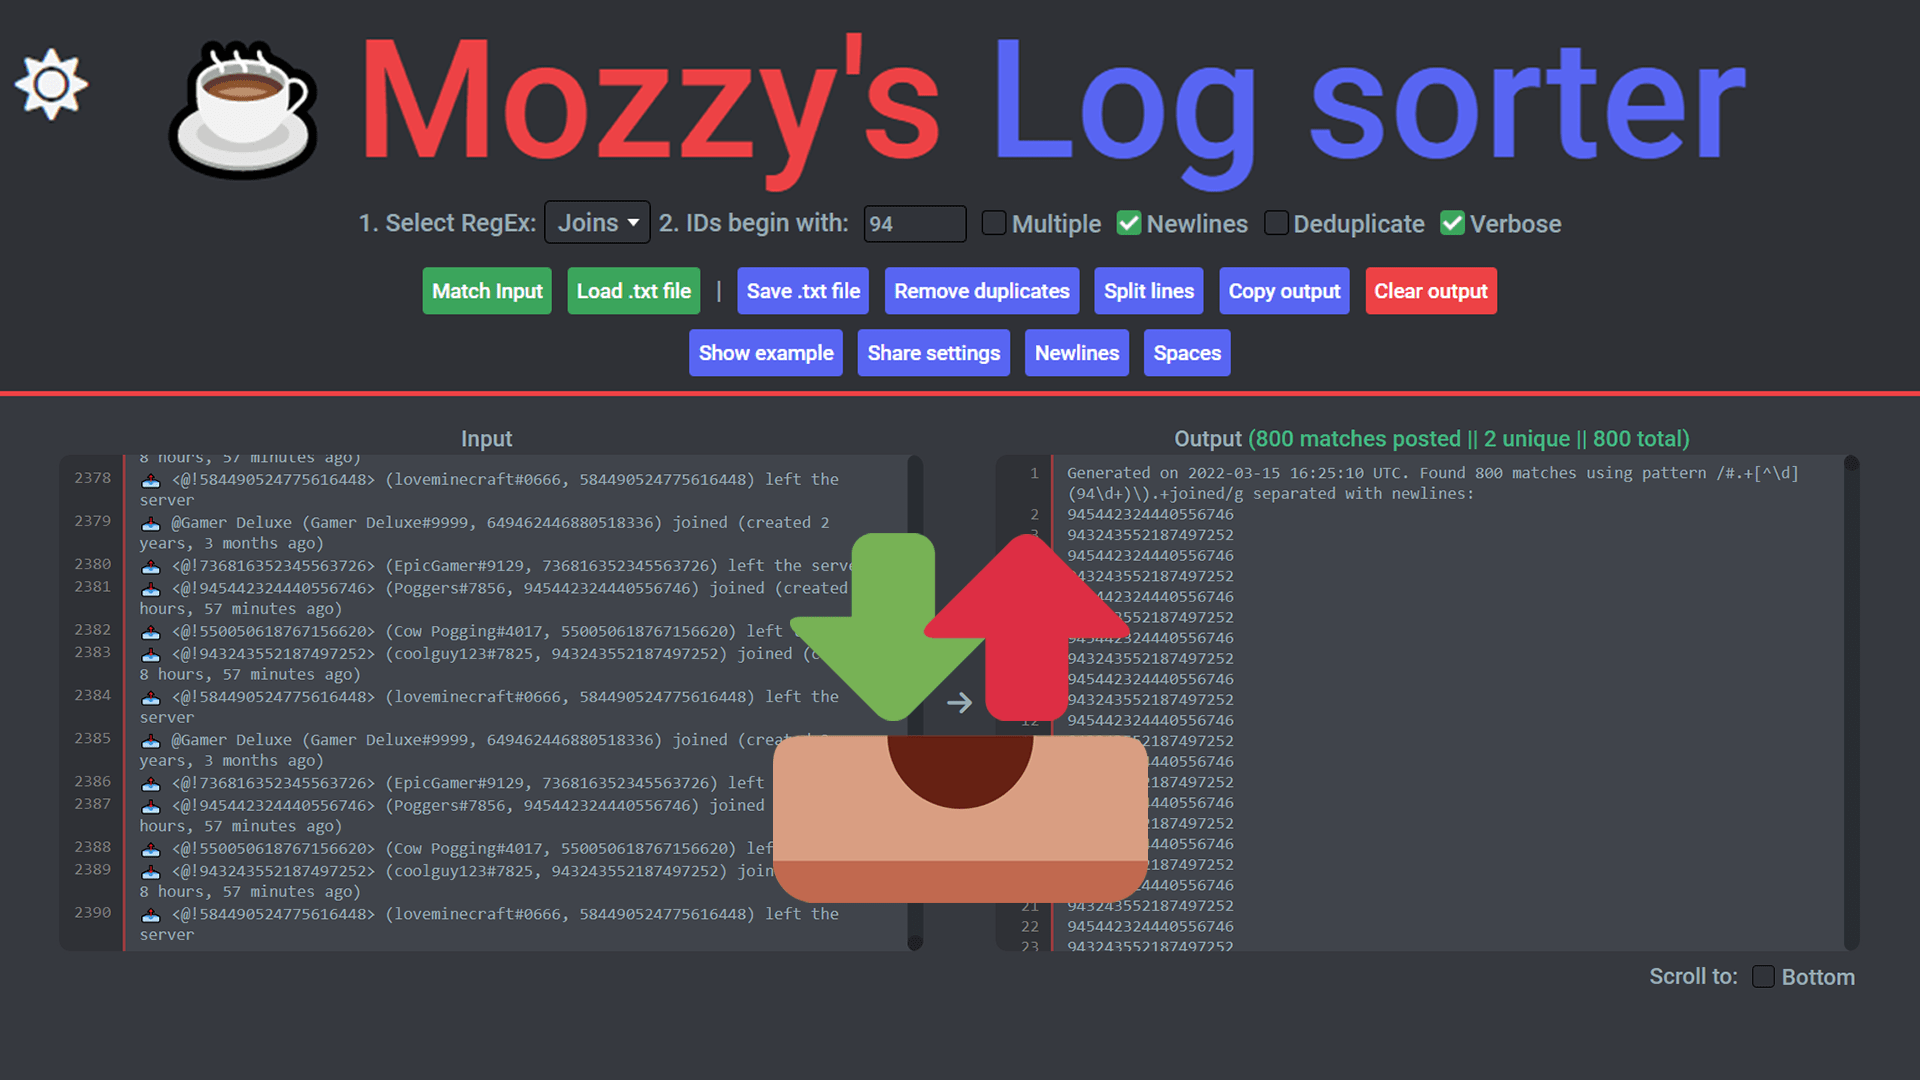
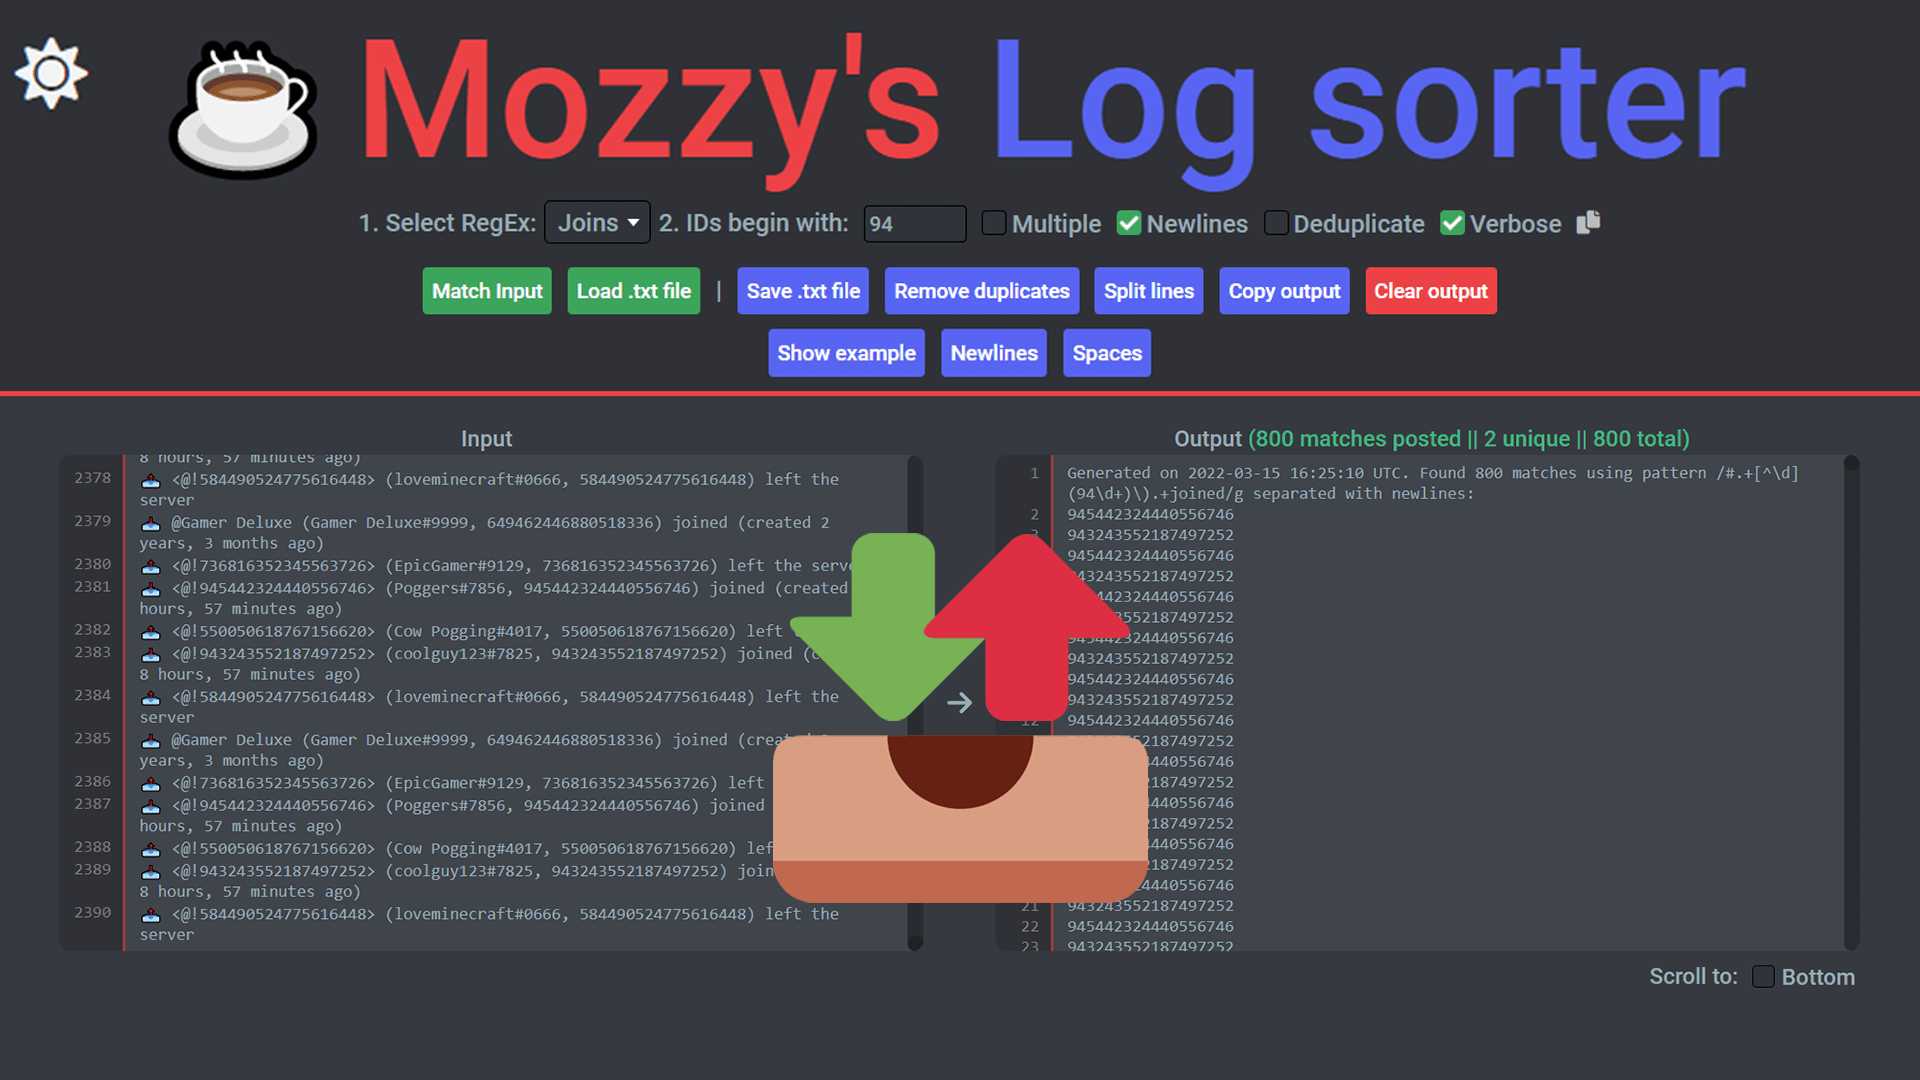
update changelog (+image), and site embed

Changed region(s): [[0.3438, 0.3056, 0.6562, 0.3667], [0.0, 0.0306, 0.0625, 0.1222], [0.8125, 0.1833, 0.8438, 0.2139]]

diff --git a/changelog/index.html b/changelog/index.html
@@ -148,10 +148,12 @@
 			<br>
 			- Renamed Match Input and Split IDs button.
 			<br>
-			- "Share settings" feature now uses smarter way of creating the URL (double-click "Log Sorter" on the main
-			site to see debug).
+			- Share settings feature now uses a smarter way of creating the URL. It has also been moved to an icon on
+			the first row.
 			<br>
 			- Disabled old redirects.
+			<br>
+			- Other minor changes.
 
 
 			<br><br>
